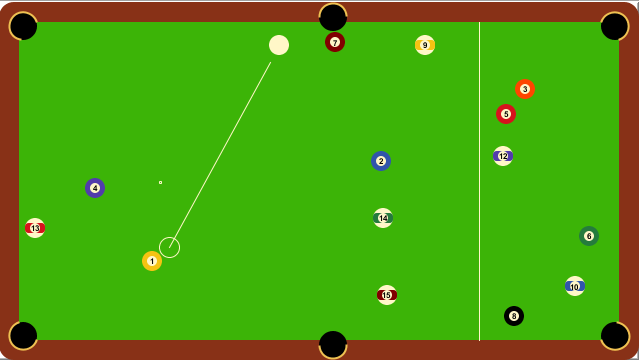
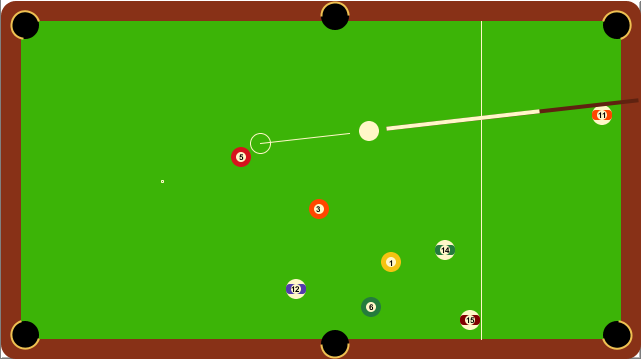
Added cue stick

diff --git a/src/main/java/pool/Shoot.java b/src/main/java/pool/Shoot.java
@@ -8,10 +8,12 @@ import java.awt.event.MouseMotionListener;
 public final class Shoot implements MouseListener, MouseMotionListener
 {
     private Game                     game;
-    protected boolean aiming = false, cue = true;
+    protected boolean aiming = false;
+    private   boolean cue    = true;
     private   int     power  = 20, aim_r = 10;
     private double aim_oval_x = 0, aim_oval_y = 0;
     private int aim_line_x1, aim_line_x2, aim_line_y1, aim_line_y2;
+    private int cue_x1, cue_x2, cue_y1, cue_y2, cue_head_x1, cue_head_y1, cue_middle_x1, cue_middle_y1;
 
     Shoot(Game g)
     {
@@ -24,10 +26,27 @@ public final class Shoot implements MouseListener, MouseMotionListener
     {
         if (cue && !game.movingWhiteBall && game.readyForShoot)
         {
+            g.setRenderingHint(
+                    RenderingHints.KEY_ANTIALIASING,
+                    RenderingHints.VALUE_ANTIALIAS_ON
+            );
+            g.setRenderingHint(
+                    RenderingHints.KEY_TEXT_ANTIALIASING,
+                    RenderingHints.VALUE_TEXT_ANTIALIAS_ON
+            );
+
             g.setColor(Helper.BALL_WHITE);
             g.setStroke(new BasicStroke(1));
             g.drawOval((int) aim_oval_x, (int) aim_oval_y, aim_r * 2, aim_r * 2);
             g.drawLine(aim_line_x1, aim_line_y1, aim_line_x2, aim_line_y2);
+            g.setColor(Helper.BC.darker());
+            g.setStroke(new BasicStroke(4));
+            g.drawLine(cue_x1, cue_y1, cue_x2, cue_y2);
+//            g.setColor(Color.WHITE);
+//            g.drawLine(cue_head_x1, cue_head_y1, cue_x2, cue_y2);
+            g.setColor(Helper.BALL_WHITE);
+            g.drawLine(cue_middle_x1, cue_middle_y1, cue_x2, cue_y2);
+
         }
     }
 
@@ -152,6 +171,7 @@ public final class Shoot implements MouseListener, MouseMotionListener
         else if(aiming)
         {
 
+            // Aiming line
             aim_oval_x = e.getX() - aim_r;
             aim_oval_y = e.getY() - aim_r * 2;
 
@@ -165,6 +185,21 @@ public final class Shoot implements MouseListener, MouseMotionListener
 
             aim_line_x2 = (int) ((dx * i) + aim_line_x1);
             aim_line_y2 = (int) ((dy * i) + aim_line_y1);
+
+            // Cue
+            double angle = Math.atan2(aim_line_x1 - b.getCenterX(), aim_line_y1 - b.getCenterY());
+            cue_x2 = (int) (b.getCenterX() - Math.sin(angle) * 20);
+            cue_y2 = (int) (b.getCenterY() - Math.cos(angle) * 20);
+            cue_x1 = (int) (cue_x2 - Math.sin(angle) * 250);
+            cue_y1 = (int) (cue_y2 - Math.cos(angle) * 250);
+
+            //Cue middle
+            cue_middle_x1 = (int) (cue_x2 - Math.sin(angle) * 150);
+            cue_middle_y1 = (int) (cue_y2 - Math.cos(angle) * 150);
+
+            // Cue head
+            cue_head_x1 = (int) (cue_x2 - Math.sin(angle) * 4);
+            cue_head_y1 = (int) (cue_y2 - Math.cos(angle) * 4);
 
             cue = true;
         }

diff --git a/src/main/java/pool/Game.java b/src/main/java/pool/Game.java
@@ -23,7 +23,8 @@ public final class Game extends JPanel implements Runnable
 
     protected ArrayList<Ball>          balls;
     Sound sound = new Sound();
-    private Shoot shoot = new Shoot(this);
+    private Shoot shoot;
+
 
     Game()
     {
@@ -35,6 +36,7 @@ public final class Game extends JPanel implements Runnable
         setSize(Helper.SW, Helper.SH);
         setFocusable(true);
         requestFocus();
+        this.shoot = new Shoot(this);
     }
 
     @Override
